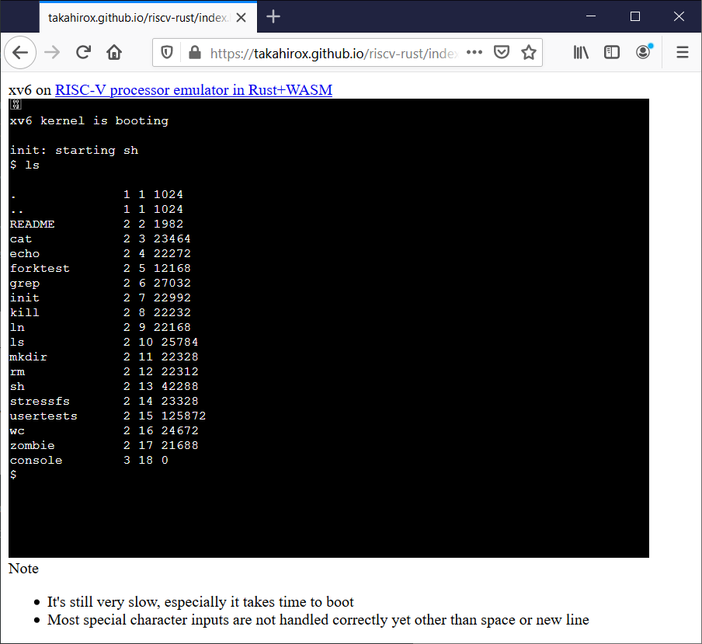
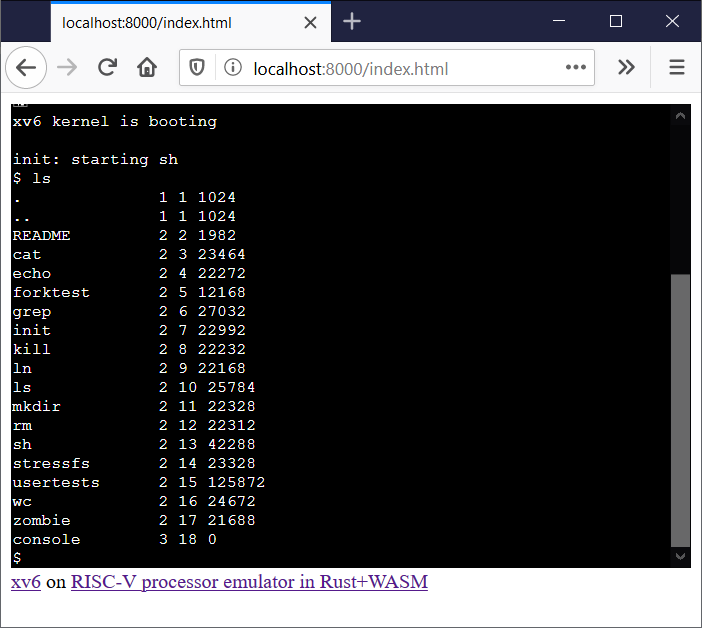
Update online demo layout and screenshot

Changed region(s): [[0.0, 0.0, 1.0, 1.0]]

diff --git a/index.html b/index.html
@@ -7,6 +7,8 @@
       color: #fff;
       border-style: none;
       resize: none;
+      width: 100%;
+      height: 90%;
     }
     </style>
   </head>
@@ -24,6 +26,7 @@
 
         const inputs = [];
         const terminal = document.getElementById('terminal');
+
         terminal.addEventListener('keydown', event => {
           let value = 0;
           switch (event.keyCode) {
@@ -73,16 +76,20 @@
         .then(wasm => run(wasm))
         .catch(error => console.error(error));
     </script>
+<textarea id="terminal" readonly>
+Message from the emulator author Takahiro:
+
+Booting the kernel of xv6 RISC-V port.
+The emulator is still very slow. It takes time to boot.
+Thank you for your patience.
+Once the kernel boots up shell starts.
+Note that some special character inputs are not handled correctly yet.
+
+Enjoy RISC-V and Operating System on browser!
+
+</textarea><br />
     <div>
-      xv6 on <a href="https://github.com/takahirox/riscv-rust" target="_blank">RISC-V processor emulator in Rust+WASM</a>
-    </div>
-    <textarea id="terminal" cols="82" rows="30" readonly></textarea><br />
-    <div>
-    Note
-    <ul>
-      <li>It's still very slow, especially it takes time to boot</li>
-      <li>Most special character inputs are not handled correctly yet other than space or new line</li>
-    </ul>
+      <a href="https://github.com/mit-pdos/xv6-riscv" target="_blank">xv6</a> on <a href="https://github.com/takahirox/riscv-rust" target="_blank">RISC-V processor emulator in Rust+WASM</a>
     </div>
   </body>
 </html>
